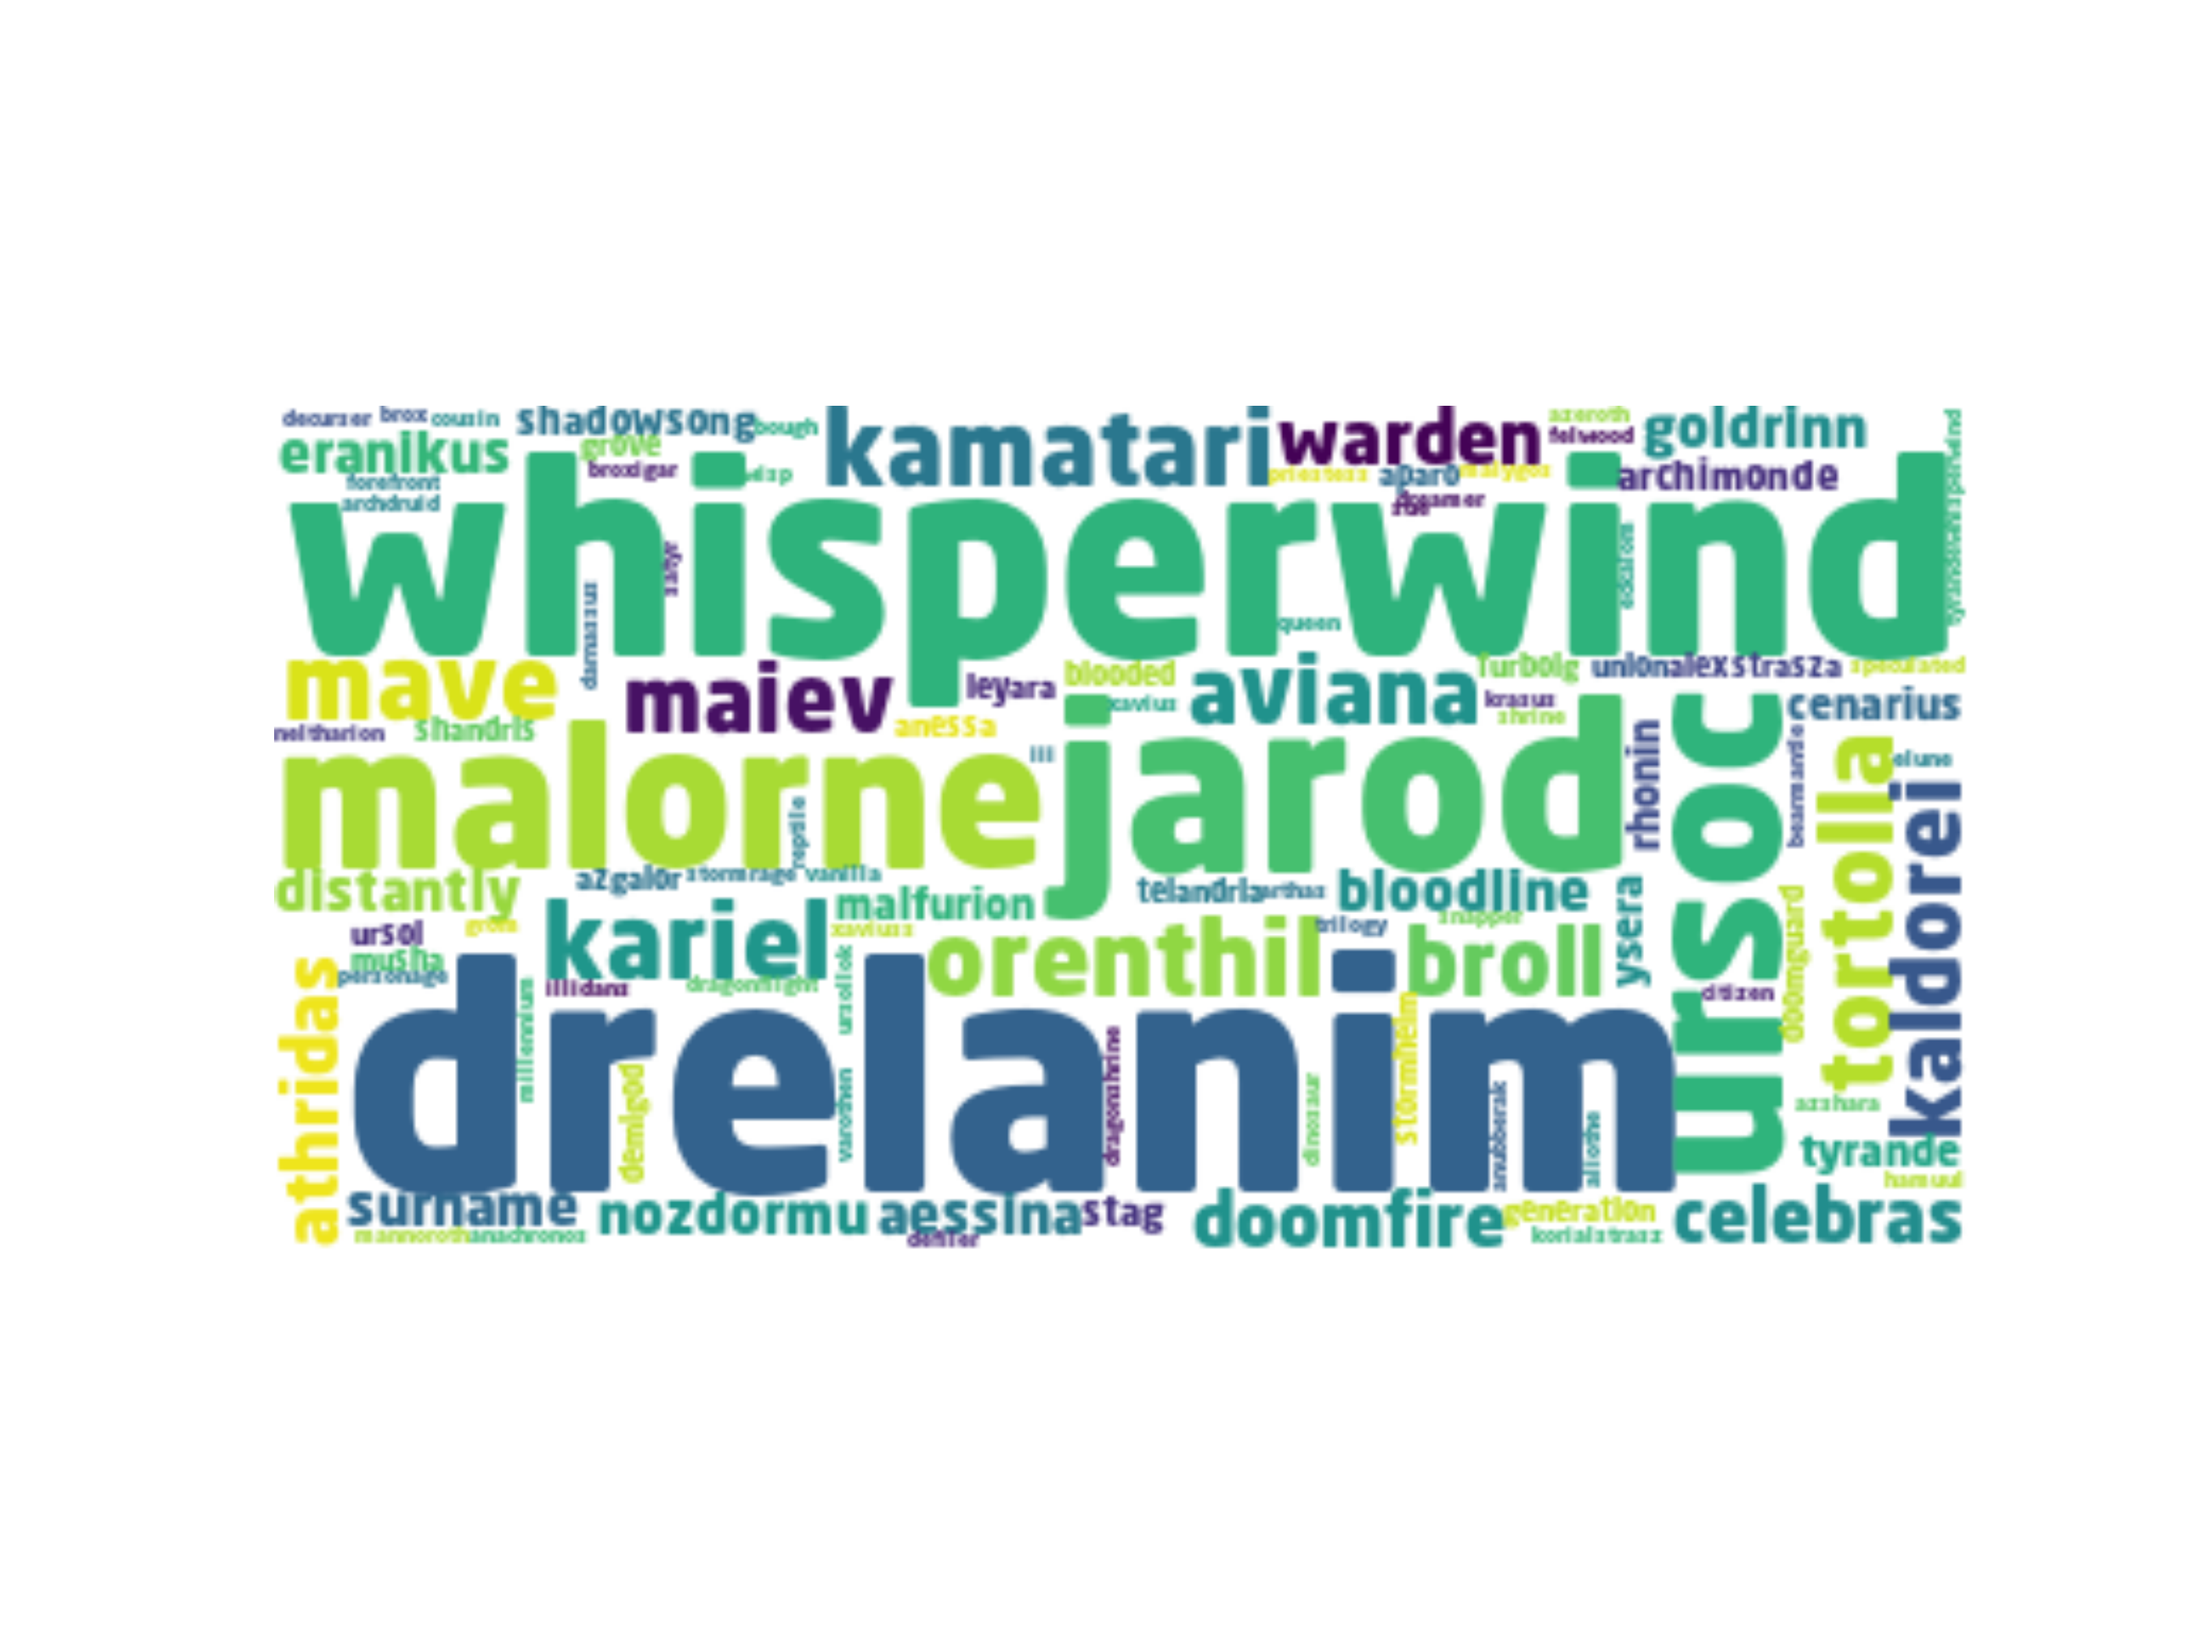
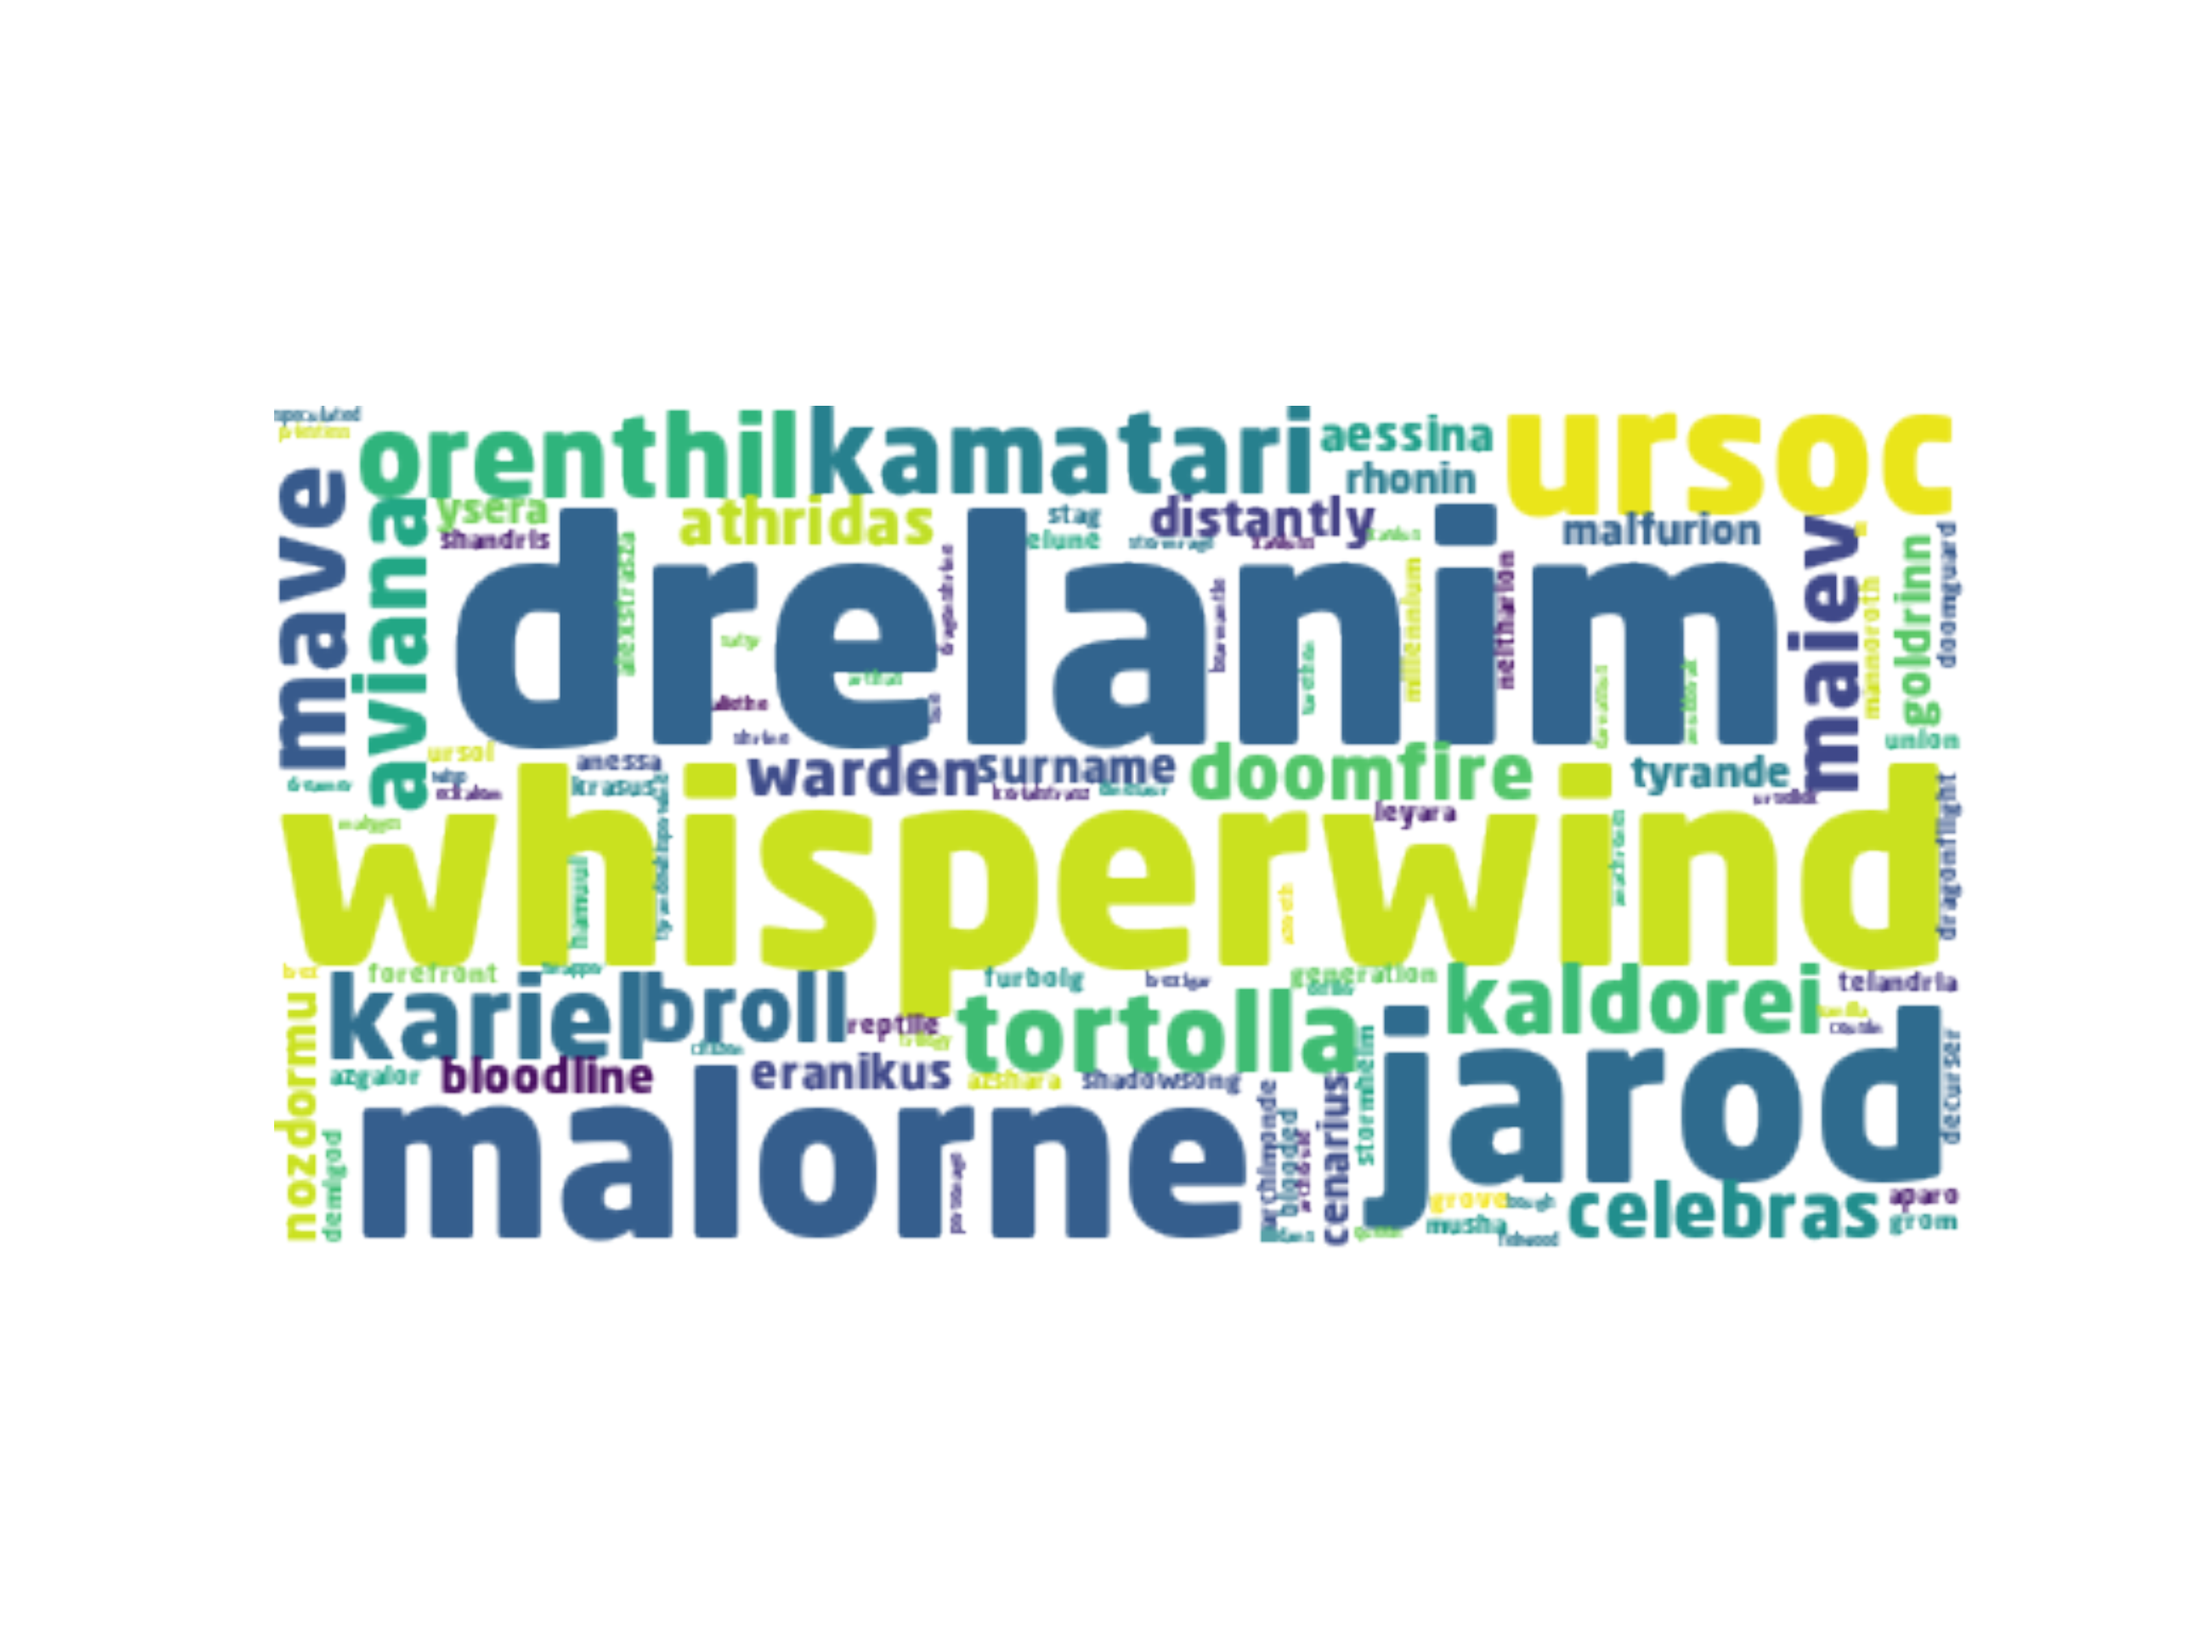
transparent backgrounds

diff --git a/text_helpers.py b/text_helpers.py
@@ -77,7 +77,7 @@ def populate_collection(col, save_path=''):
     return col
 
 
-def disp_wordcloud(col_idx, collection, maskpath='', savepath='', background_color='white', contour_width=3, contour_color='steelblue', title=''):
+def disp_wordcloud(col_idx, collection, maskpath='', savepath='', title=''):
     if collection[col_idx]['wordcloud'] == '':
         return -1
 
@@ -98,9 +98,8 @@ def disp_wordcloud(col_idx, collection, maskpath='', savepath='', background_col
             # min_font_size=30,
             collocations=False, 
             mask=mask,
-            background_color=background_color,
-            contour_width=contour_width, 
-            contour_color=contour_color,
+            background_color="rgba(255, 255, 255, 0)", 
+            mode="RGBA",
             font_path="./NeoSans Black.otf",
         )
         .generate(collection[col_idx]['wordcloud'])

diff --git a/text_analysis.py b/text_analysis.py
@@ -110,12 +110,11 @@ for attr in attr_lookup:
         maskpath = f'./data/masks/{split}.jpg'
         if not os.path.isfile(maskpath):
             maskpath = ''
+        
         disp_wordcloud(
             split, col,
             savepath=filename, 
             maskpath=maskpath, 
-            contour_color=None,
-            contour_width=0
         )
 
 # create wordclouds for communities
@@ -124,7 +123,5 @@ for i, com_name in enumerate(com_names):
     filename = PATH_PLOTS + f'wc_com_{i}.png'
     disp_wordcloud(
         i, col,
-        savepath=filename,
-        contour_color=None,
-        contour_width=0
+        savepath=filename
     )
